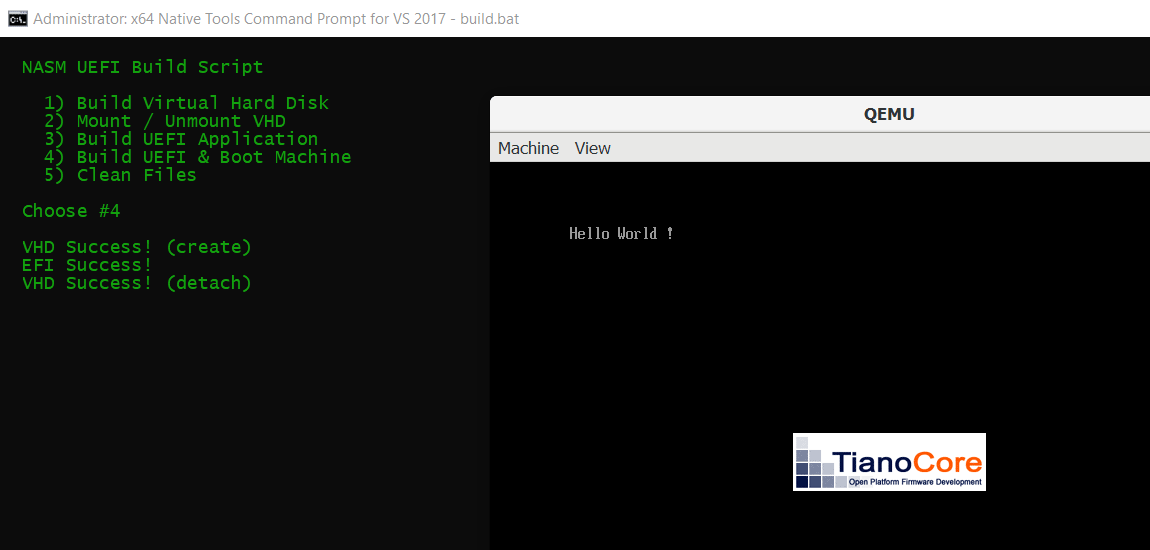
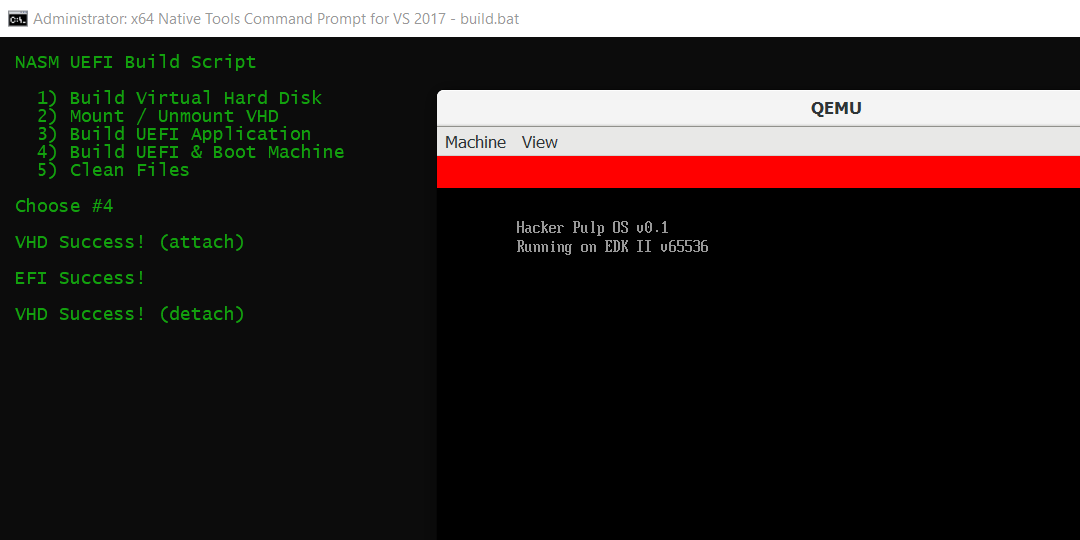
Updated the README and screenshot

diff --git a/README.md b/README.md
@@ -1,4 +1,4 @@
-# A UEFI Application Built in NASM
+# A UEFI Boot Loader Built in NASM
 
 ![Build Script](build.png?raw=true "Build Script")
 
